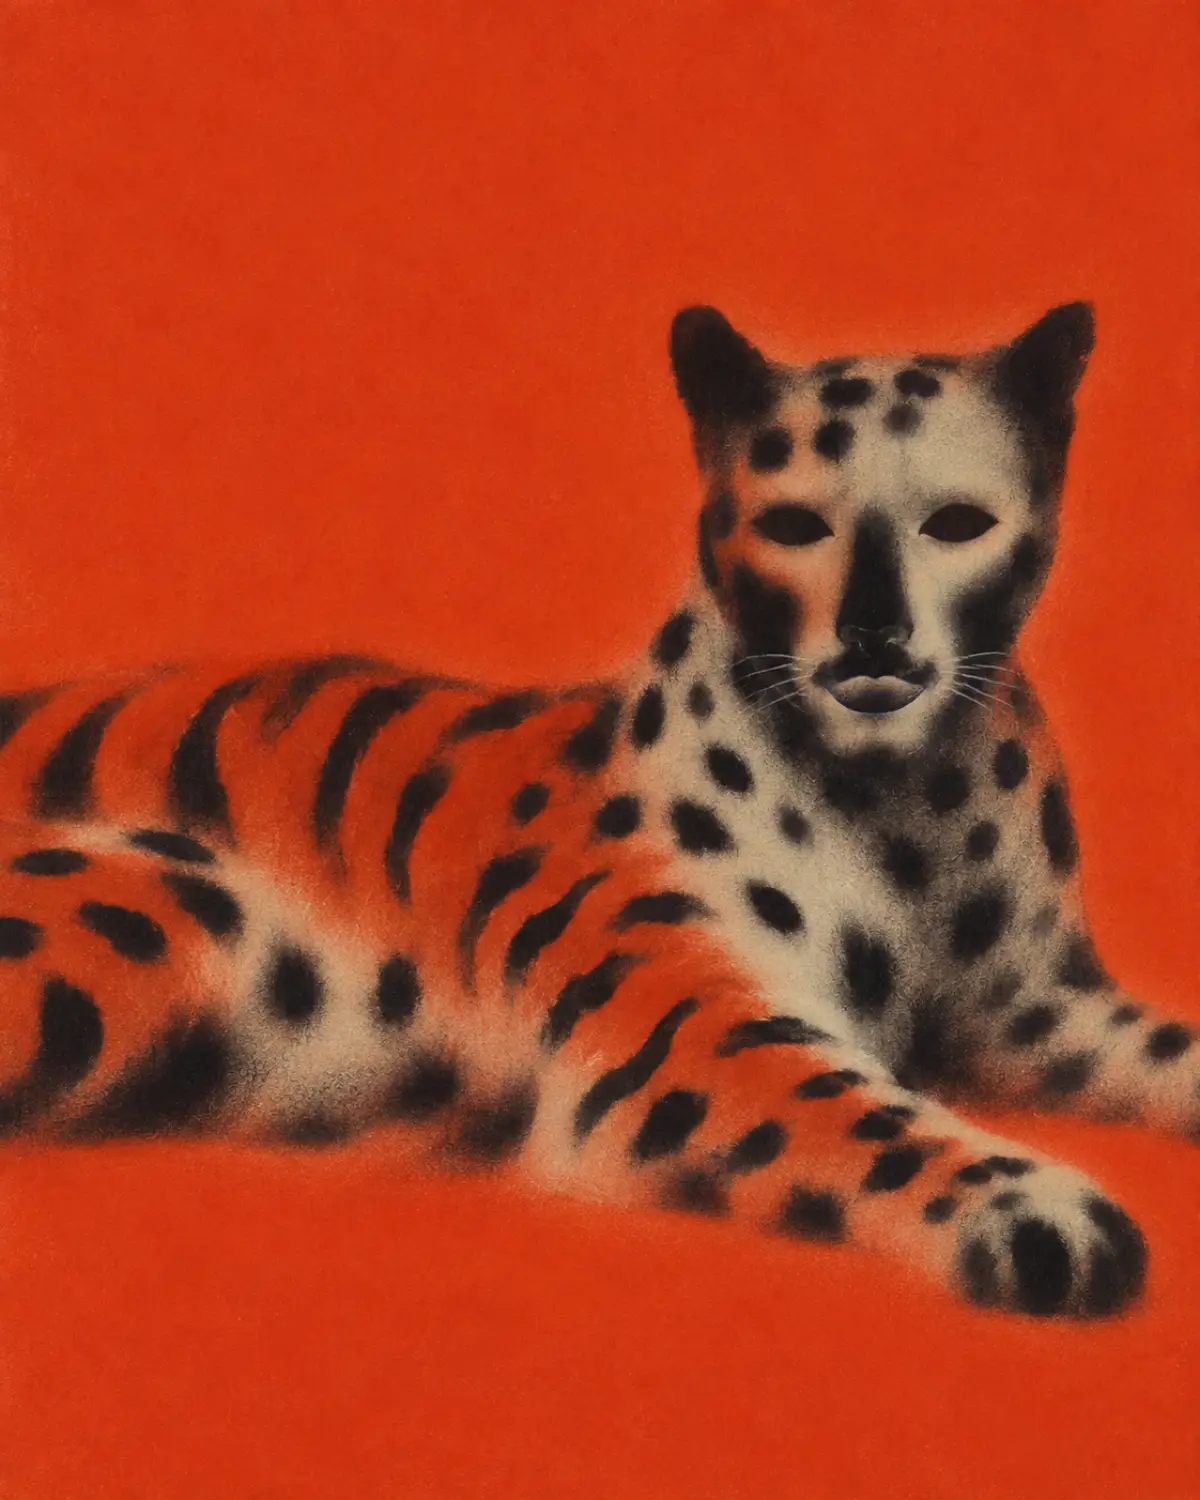
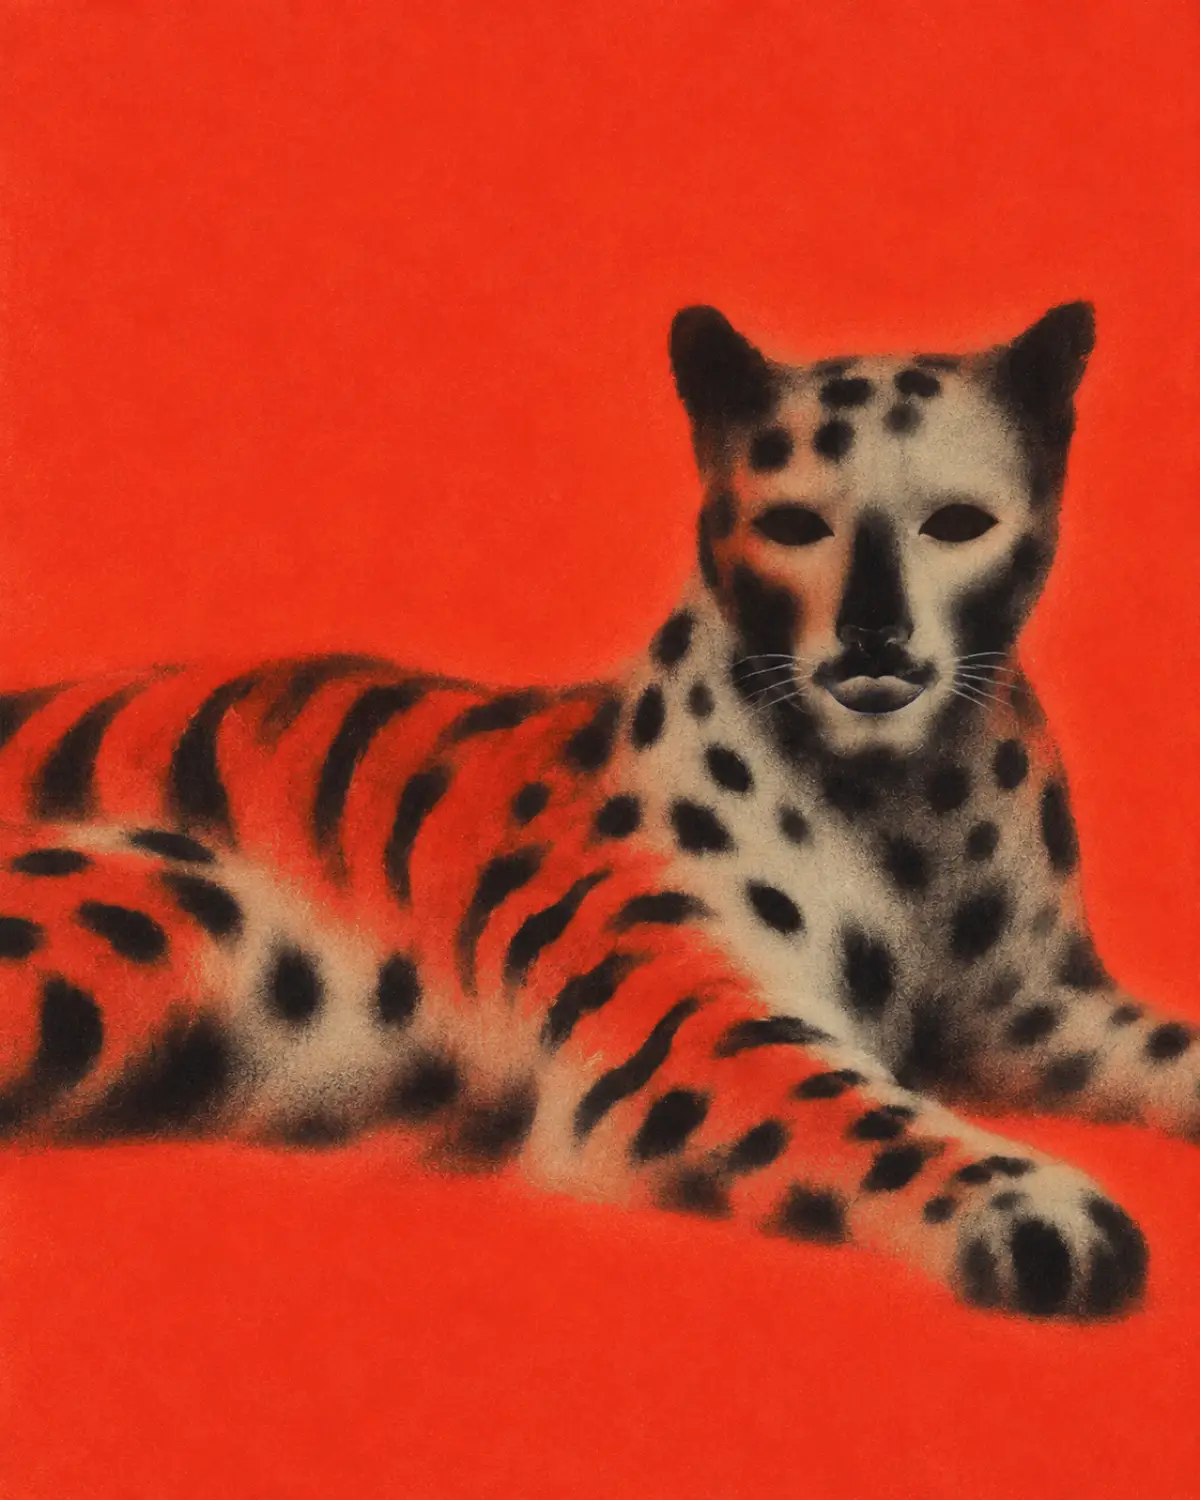
The seven pictures in their rooms
The supplied artwork was sitting in reference/ under its intended path
as a filename; it is now reference/masters/NN-slug.png and the page
ships 960px webp encodes from img/art. Each room carries its picture
with a measured focal point for the lip: the applicant's score badge,
the thumb on the card, the runner's head, the cup's rim, the Toronto
marker, the disco ball, the leopard's mouth.

Grounds against tokens, sampled: only Live sets is near its hex (19
off); Rentletter, Echoes and MELOMANIA sit on white or cream; easymonee,
Klenz and Melomaniac Studios are full-frame photographs. So the rooms
and the closer are painted with their tokens only; nothing takes a
sampled colour any more except the hero, whose portrait is still not
on its hex. The leopard is re-exported on #E3341C with its grain, lip
lifted, for both the closer and the Live sets room.

Pictures are fetched by an observer once their room is a little way up
the screen and fade in, so the first view holds at 285 KB; the whole
page is 889 KB.

diff --git a/index.html b/index.html
@@ -115,7 +115,7 @@
 
     <article class="entry entry--major" id="rentletter" data-t="0.06" data-name="Rentletter" data-cat="SaaS · screening and leads">
       <div class="entry-head">
-        <figure class="entry-art" data-focus="50 50" aria-hidden="true"><span class="entry-art-ph"><svg viewBox="24 0 48 48" preserveAspectRatio="xMidYMid slice" focusable="false"><g transform="translate(24 0)"><defs><radialGradient id="rl0"><stop offset="0%" stop-color="currentColor" stop-opacity="0.787"/><stop offset="33.28%" stop-color="currentColor" stop-opacity="0.512"/><stop offset="65.52%" stop-color="currentColor" stop-opacity="0.166"/><stop offset="100%" stop-color="currentColor" stop-opacity="0"/></radialGradient><radialGradient id="rl1"><stop offset="0%" stop-color="currentColor" stop-opacity="0.519"/><stop offset="33.28%" stop-color="currentColor" stop-opacity="0.338"/><stop offset="65.52%" stop-color="currentColor" stop-opacity="0.11"/><stop offset="100%" stop-color="currentColor" stop-opacity="0"/></radialGradient><radialGradient id="rl2"><stop offset="0%" stop-color="currentColor" stop-opacity="0.362"/><stop offset="33.28%" stop-color="currentColor" stop-opacity="0.235"/><stop offset="65.52%" stop-color="currentColor" stop-opacity="0.077"/><stop offset="100%" stop-color="currentColor" stop-opacity="0"/></radialGradient></defs><g class="m-lift"><ellipse cx="24" cy="15" rx="14.5" ry="4.2" fill="url(#rl0)"/></g><ellipse cx="24" cy="24" rx="14.5" ry="4.2" fill="url(#rl1)"/><ellipse cx="24" cy="33" rx="14.5" ry="4.2" fill="url(#rl2)"/></g></svg></span></figure>
+        <figure class="entry-art" data-focus="77 41" data-lip-width="9" aria-hidden="true"><img data-src="img/art/01-rentletter.webp" alt="" width="540" height="960" decoding="async"></figure>
         <div class="entry-meta">
           <p class="mono entry-pos">01 / Logic</p>
           <span class="entry-axis" aria-hidden="true"><i style="--pt:0.06"></i></span>
@@ -168,7 +168,7 @@
 
     <article class="entry" id="easymonee" data-t="0.20" data-name="easymonee" data-cat="Personal tooling · markets">
       <div class="entry-head">
-        <figure class="entry-art" data-focus="50 50" aria-hidden="true"><span class="entry-art-ph"><svg viewBox="24 0 48 48" preserveAspectRatio="xMidYMid slice" focusable="false"><g transform="translate(24 0)"><defs><radialGradient id="em0"><stop offset="0%" stop-color="currentColor" stop-opacity="0.227"/><stop offset="31.6%" stop-color="currentColor" stop-opacity="0.146"/><stop offset="64.4%" stop-color="currentColor" stop-opacity="0.048"/><stop offset="100%" stop-color="currentColor" stop-opacity="0"/></radialGradient><radialGradient id="em1"><stop offset="0%" stop-color="currentColor" stop-opacity="0.289"/><stop offset="31.6%" stop-color="currentColor" stop-opacity="0.186"/><stop offset="64.4%" stop-color="currentColor" stop-opacity="0.061"/><stop offset="100%" stop-color="currentColor" stop-opacity="0"/></radialGradient><radialGradient id="em2"><stop offset="0%" stop-color="currentColor" stop-opacity="0.351"/><stop offset="31.6%" stop-color="currentColor" stop-opacity="0.226"/><stop offset="64.4%" stop-color="currentColor" stop-opacity="0.074"/><stop offset="100%" stop-color="currentColor" stop-opacity="0"/></radialGradient><radialGradient id="em3"><stop offset="0%" stop-color="currentColor" stop-opacity="0.413"/><stop offset="31.6%" stop-color="currentColor" stop-opacity="0.265"/><stop offset="64.4%" stop-color="currentColor" stop-opacity="0.087"/><stop offset="100%" stop-color="currentColor" stop-opacity="0"/></radialGradient></defs><g fill="none" stroke="currentColor" stroke-linecap="round" stroke-linejoin="round"><path d="M8 8 V40 H40" stroke-width="9.248" stroke-opacity="0.029"/><path d="M8 8 V40 H40" stroke-width="5.712" stroke-opacity="0.054"/><path d="M8 8 V40 H40" stroke-width="3.4" stroke-opacity="0.1"/></g><ellipse cx="14" cy="34" rx="5.0" ry="5.0" fill="url(#em0)"/><ellipse cx="21" cy="27.5" rx="5.6" ry="5.6" fill="url(#em1)"/><ellipse cx="28" cy="20.5" rx="6.4" ry="6.4" fill="url(#em2)"/><g class="m-peak"><ellipse cx="35" cy="13.5" rx="7.6" ry="7.6" fill="url(#em3)"/></g></g></svg></span></figure>
+        <figure class="entry-art" data-focus="61 36" data-lip-width="9" aria-hidden="true"><img data-src="img/art/02-easymonee.webp" alt="" width="720" height="960" decoding="async"></figure>
         <div class="entry-meta">
           <p class="mono entry-pos">02 / Logic</p>
           <span class="entry-axis" aria-hidden="true"><i style="--pt:0.20"></i></span>
@@ -222,7 +222,7 @@
 
     <article class="entry entry--minor" id="klenz" data-t="0.38" data-name="Klenz" data-cat="Wellness · Strava-wired">
       <div class="entry-head">
-        <figure class="entry-art" data-focus="50 50" aria-hidden="true"><span class="entry-art-ph"><svg viewBox="24 0 48 48" preserveAspectRatio="xMidYMid slice" focusable="false"><g transform="translate(24 0)"><defs><radialGradient id="kz0"><stop offset="0%" stop-color="currentColor" stop-opacity="0.386"/><stop offset="29.44%" stop-color="currentColor" stop-opacity="0.243"/><stop offset="62.96%" stop-color="currentColor" stop-opacity="0.081"/><stop offset="100%" stop-color="currentColor" stop-opacity="0"/></radialGradient><radialGradient id="kz1"><stop offset="0%" stop-color="currentColor" stop-opacity="0"/><stop offset="33.44%" stop-color="currentColor" stop-opacity="0.076"/><stop offset="56.48%" stop-color="currentColor" stop-opacity="0.33"/><stop offset="81.8%" stop-color="currentColor" stop-opacity="0.095"/><stop offset="100%" stop-color="currentColor" stop-opacity="0"/></radialGradient></defs><ellipse cx="24" cy="24" rx="8.5" ry="8.5" fill="url(#kz0)"/><ellipse cx="24" cy="24" rx="16" ry="16" fill="url(#kz1)"/><g class="m-open" fill="none" stroke="currentColor" stroke-linecap="round" stroke-linejoin="round"><path d="M40.9 17.8 A18 18 0 1 1 27.1 6.3" stroke-width="10.227" stroke-opacity="0.05"/><path d="M40.9 17.8 A18 18 0 1 1 27.1 6.3" stroke-width="6.317" stroke-opacity="0.092"/><path d="M40.9 17.8 A18 18 0 1 1 27.1 6.3" stroke-width="3.76" stroke-opacity="0.167"/></g></g></svg></span></figure>
+        <figure class="entry-art" data-focus="58 63" data-lip-width="4" aria-hidden="true"><img data-src="img/art/03-klenz.webp" alt="" width="720" height="960" decoding="async"></figure>
         <div class="entry-meta">
           <p class="mono entry-pos">03 / Mixed</p>
           <span class="entry-axis" aria-hidden="true"><i style="--pt:0.38"></i></span>
@@ -268,7 +268,7 @@
 
     <article class="entry entry--major" id="melomaniac-studios" data-t="0.50" data-name="Melomaniac Studios" data-cat="Studio · Labs">
       <div class="entry-head">
-        <figure class="entry-art" data-focus="50 50" aria-hidden="true"><span class="entry-art-ph"><svg viewBox="24 0 48 48" preserveAspectRatio="xMidYMid slice" focusable="false"><g transform="translate(24 0)"><defs><radialGradient id="st0"><stop offset="0%" stop-color="currentColor" stop-opacity="0.066"/><stop offset="28.0%" stop-color="currentColor" stop-opacity="0.041"/><stop offset="62.0%" stop-color="currentColor" stop-opacity="0.014"/><stop offset="100%" stop-color="currentColor" stop-opacity="0"/></radialGradient></defs><ellipse cx="24" cy="29" rx="14" ry="12" fill="url(#st0)"/><g fill="none" stroke="currentColor" stroke-linecap="round" stroke-linejoin="round"><path d="M11 41 V24 A13 13 0 0 1 37 24 V41" stroke-width="10.88" stroke-opacity="0.02"/><path d="M11 41 V24 A13 13 0 0 1 37 24 V41" stroke-width="6.72" stroke-opacity="0.036"/><path d="M11 41 V24 A13 13 0 0 1 37 24 V41" stroke-width="4.0" stroke-opacity="0.065"/></g><g class="m-wave" fill="none" stroke="currentColor" stroke-linecap="round" stroke-linejoin="round"><path d="M4 33 C9 29.5 13 36 18 32.8 S27 29.6 31 33 S40 35.6 44 31.8" stroke-width="10.88" stroke-opacity="0.016"/><path d="M4 33 C9 29.5 13 36 18 32.8 S27 29.6 31 33 S40 35.6 44 31.8" stroke-width="6.72" stroke-opacity="0.03"/><path d="M4 33 C9 29.5 13 36 18 32.8 S27 29.6 31 33 S40 35.6 44 31.8" stroke-width="4.0" stroke-opacity="0.053"/></g></g></svg></span></figure>
+        <figure class="entry-art" data-focus="55 42" data-lip-width="12" aria-hidden="true"><img data-src="img/art/04-melomaniac-studios.webp" alt="" width="768" height="960" decoding="async"></figure>
         <div class="entry-meta">
           <p class="mono entry-pos">04 / Mixed</p>
           <span class="entry-axis" aria-hidden="true"><i style="--pt:0.50"></i></span>
@@ -355,7 +355,7 @@
 
     <article class="entry entry--major" id="echoes" data-t="0.60" data-name="Echoes" data-cat="Consumer · music memory">
       <div class="entry-head">
-        <figure class="entry-art" data-focus="50 50" aria-hidden="true"><span class="entry-art-ph"><svg viewBox="24 0 48 48" preserveAspectRatio="xMidYMid slice" focusable="false"><g transform="translate(24 0)"><defs><radialGradient id="ec0"><stop offset="0%" stop-color="currentColor" stop-opacity="0.179"/><stop offset="26.8%" stop-color="currentColor" stop-opacity="0.11"/><stop offset="61.2%" stop-color="currentColor" stop-opacity="0.038"/><stop offset="100%" stop-color="currentColor" stop-opacity="0"/></radialGradient></defs><ellipse cx="17" cy="31" rx="6.4" ry="6.4" fill="url(#ec0)"/><g class="m-rings"><g fill="none" stroke="currentColor" stroke-linecap="round" stroke-linejoin="round"><path d="M18.2 24.1 A7 7 0 1 1 10.9 27.5" stroke-width="11.424" stroke-opacity="0.028"/><path d="M18.2 24.1 A7 7 0 1 1 10.9 27.5" stroke-width="7.056" stroke-opacity="0.049"/><path d="M18.2 24.1 A7 7 0 1 1 10.9 27.5" stroke-width="4.2" stroke-opacity="0.088"/></g><g fill="none" stroke="currentColor" stroke-linecap="round" stroke-linejoin="round"><path d="M24.5 20.4 A13 13.6 0 1 1 5.2 36.5" stroke-width="11.424" stroke-opacity="0.019"/><path d="M24.5 20.4 A13 13.6 0 1 1 5.2 36.5" stroke-width="7.056" stroke-opacity="0.035"/><path d="M24.5 20.4 A13 13.6 0 1 1 5.2 36.5" stroke-width="4.2" stroke-opacity="0.062"/></g><g fill="none" stroke="currentColor" stroke-linecap="round" stroke-linejoin="round"><path d="M15.3 11.6 A19.5 20.5 0 0 1 33 42.2" stroke-width="11.424" stroke-opacity="0.012"/><path d="M15.3 11.6 A19.5 20.5 0 0 1 33 42.2" stroke-width="7.056" stroke-opacity="0.022"/><path d="M15.3 11.6 A19.5 20.5 0 0 1 33 42.2" stroke-width="4.2" stroke-opacity="0.039"/></g></g></g></svg></span></figure>
+        <figure class="entry-art" data-focus="45 57" data-lip-width="8" aria-hidden="true"><img data-src="img/art/05-echoes.webp" alt="" width="640" height="960" decoding="async"></figure>
         <div class="entry-meta">
           <p class="mono entry-pos">05 / Feeling</p>
           <span class="entry-axis" aria-hidden="true"><i style="--pt:0.60"></i></span>
@@ -410,7 +410,7 @@
 
     <article class="entry" id="melomania" data-t="0.80" data-name="MELOMANIA" data-cat="Live series · Toronto">
       <div class="entry-head">
-        <figure class="entry-art" data-focus="50 50" aria-hidden="true"><span class="entry-art-ph"><svg viewBox="24 0 48 48" preserveAspectRatio="xMidYMid slice" focusable="false"><g transform="translate(24 0)"><defs><radialGradient id="mm0"><stop offset="0%" stop-color="currentColor" stop-opacity="0.195"/><stop offset="24.4%" stop-color="currentColor" stop-opacity="0.117"/><stop offset="59.6%" stop-color="currentColor" stop-opacity="0.041"/><stop offset="100%" stop-color="currentColor" stop-opacity="0"/></radialGradient></defs><ellipse cx="13" cy="37" rx="6.0" ry="6.0" fill="url(#mm0)"/><g class="m-arcs"><g fill="none" stroke="currentColor" stroke-linecap="round" stroke-linejoin="round"><path d="M21.6 35 C22.2 33.3 20.6 31.7 19.9 30.6 C19.2 29.6 17.3 29.9 16.4 29.2 C15.7 28.6 14.9 29.7 14.2 29.1" stroke-width="12.512" stroke-opacity="0.033"/><path d="M21.6 35 C22.2 33.3 20.6 31.7 19.9 30.6 C19.2 29.6 17.3 29.9 16.4 29.2 C15.7 28.6 14.9 29.7 14.2 29.1" stroke-width="7.728" stroke-opacity="0.059"/><path d="M21.6 35 C22.2 33.3 20.6 31.7 19.9 30.6 C19.2 29.6 17.3 29.9 16.4 29.2 C15.7 28.6 14.9 29.7 14.2 29.1" stroke-width="4.6" stroke-opacity="0.102"/></g><g fill="none" stroke="currentColor" stroke-linecap="round" stroke-linejoin="round"><path d="M28 34.1 C29 30.4 26.4 28 25 26.1 C23.6 24.3 20.7 23 19.2 24.1 C17.7 25.1 16.9 22.4 15.1 23.7" stroke-width="12.512" stroke-opacity="0.023"/><path d="M28 34.1 C29 30.4 26.4 28 25 26.1 C23.6 24.3 20.7 23 19.2 24.1 C17.7 25.1 16.9 22.4 15.1 23.7" stroke-width="7.728" stroke-opacity="0.04"/><path d="M28 34.1 C29 30.4 26.4 28 25 26.1 C23.6 24.3 20.7 23 19.2 24.1 C17.7 25.1 16.9 22.4 15.1 23.7" stroke-width="4.6" stroke-opacity="0.07"/></g><g fill="none" stroke="currentColor" stroke-linecap="round" stroke-linejoin="round"><path d="M34.3 33.3 C35.7 28.6 32.3 24.3 31.2 22 C29.9 19.5 26.3 17.6 23.7 17.5 C21 17.3 17.8 15.7 15.1 18.3" stroke-width="12.512" stroke-opacity="0.015"/><path d="M34.3 33.3 C35.7 28.6 32.3 24.3 31.2 22 C29.9 19.5 26.3 17.6 23.7 17.5 C21 17.3 17.8 15.7 15.1 18.3" stroke-width="7.728" stroke-opacity="0.026"/><path d="M34.3 33.3 C35.7 28.6 32.3 24.3 31.2 22 C29.9 19.5 26.3 17.6 23.7 17.5 C21 17.3 17.8 15.7 15.1 18.3" stroke-width="4.6" stroke-opacity="0.045"/></g></g></g></svg></span></figure>
+        <figure class="entry-art" data-focus="49 27" data-lip-width="9" aria-hidden="true"><img data-src="img/art/06-melomania.webp" alt="" width="640" height="960" decoding="async"></figure>
         <div class="entry-meta">
           <p class="mono entry-pos">06 / Feeling</p>
           <span class="entry-axis" aria-hidden="true"><i style="--pt:0.80"></i></span>
@@ -464,7 +464,7 @@
 
     <article class="entry entry--minor" id="live-sets" data-t="0.95" data-name="Live sets" data-cat="Performance · original">
       <div class="entry-head">
-        <figure class="entry-art" data-focus="50 50" aria-hidden="true"><span class="entry-art-ph"><svg viewBox="24 0 48 48" preserveAspectRatio="xMidYMid slice" focusable="false"><g transform="translate(24 0)"><ellipse cx="24" cy="24" rx="20" ry="10" fill="none"/></g></svg></span></figure>
+        <figure class="entry-art" data-focus="72.95 46.29" data-lip-width="8.38" aria-hidden="true"><img data-src="img/art/07-live-sets.webp" alt="" width="768" height="960" decoding="async"></figure>
         <div class="entry-meta">
           <p class="mono entry-pos">07 / Feeling</p>
           <span class="entry-axis" aria-hidden="true"><i style="--pt:0.95"></i></span>

diff --git a/script.js b/script.js
@@ -436,10 +436,16 @@
       return null;                   // tainted or not decodable: keep the token
     }
   };
+  // the room pictures are fetched once their room is a little way up the
+  // screen, not when its top edge grazes the fold: the browser's own lazy
+  // margin is over a screen ahead and pulled three of them into the
+  // first view. They fade in as they land.
+  const gate = "IntersectionObserver" in window ? new IntersectionObserver((es) => { for (const e of es) if (e.isIntersecting) { const im = e.target; if (im.dataset.src) { im.src = im.dataset.src; delete im.dataset.src; } gate.unobserve(im); } }, { rootMargin: "0px 0px -15% 0px" }) : null;
+  for (const im of document.querySelectorAll(".entry-art img[data-src]")) { if (gate) gate.observe(im); else { im.src = im.dataset.src; } }
   for (const img of document.querySelectorAll(".entry-art img")) {
     const done = () => {
       const c = sample(img);
-      if (c) img.closest(".entry").style.setProperty("--art-bg", c);   // the room takes the picture's ground
+      if (c) img.closest(".entry").dataset.ground = c;   // recorded for the auditors and reports; the room keeps its token
       img.classList.add("is-loaded");
     };
     if (img.complete && img.naturalWidth) done();
@@ -616,14 +622,14 @@
       return `rgb(${r} ${g} ${b})`;
     } catch { return null; }
   };
-  for (const [sel, prop] of [[".hero-portrait img", "--hero-bg"], [".closer-art img", "--closer-bg"]]) {
+  for (const [sel, prop] of [[".hero-portrait img", "--hero-bg"], [".closer-art img", "--closer-bg"]]) {   // the hero still takes its sample: the portrait is not on the token yet
     const img = document.querySelector(sel); if (!img) continue;
     const done = () => {
       const c = sample(img); if (!c) return;
       document.documentElement.style.setProperty(prop, c);
       // the last room and the closer are one field: until Live sets has a
       // picture of its own, its room takes the leopard's sampled ground
-      if (prop === "--closer-bg") { const last = document.querySelector("#live-sets"); if (last && !last.querySelector(".entry-art img")) last.style.setProperty("--art-bg", c); }
+      if (prop === "--closer-bg") document.documentElement.dataset.closerGround = c;   // recorded only; the closer is painted with the token
     };
     if (img.complete && img.naturalWidth) done(); else img.addEventListener("load", done, { once: true });
   }

diff --git a/styles.css b/styles.css
@@ -1510,7 +1510,7 @@ html { overflow-x: clip; }
   max-width: none;
   margin: 0;
   padding: 0 max(var(--pad-x), calc(50% - var(--page-max) / 2 + var(--pad-x)));
-  background: var(--closer-bg, var(--c7));
+  background: var(--c7);   /* the leopard is exported on this hex; nothing is sampled */
 }
 .closer-art {
   margin: 0 auto;
@@ -1580,7 +1580,7 @@ html { overflow-x: clip; }
   align-content: center;
   min-height: 52vh;
   padding-block: var(--s5);
-  --ground: var(--art-bg, var(--mc, var(--accent)));
+  --ground: var(--mc, var(--accent));   /* the token, never a sampled colour: a picture that is off shows as off */
 }
 /* above the phone grid the copy keeps its two lanes, placed explicitly,
    since the copy's ground is a grid item too and must not push the copy

diff --git a/README.md b/README.md
@@ -321,16 +321,27 @@ reference/                     the style references, not shipped
   style-03-leopard-vermilion.png
   mockup-homepage.png
 
-img/art/                       the shipped artwork, one per entry
-  01-rentletter.png            master, 1600x2000
+reference/masters/             the masters, not shipped, not in git
+  01-rentletter.png            1600x2000
   02-easymonee.png
   03-klenz.png
   04-melomaniac-studios.png
   05-echoes.png
   06-melomania.png
   07-live-sets.png
-  portrait.png                 master, 1600x2000, the hero
+  portrait.png                 the hero
+
+img/art/                       what the page ships, generated from the masters
+  01-rentletter.webp ... 07-live-sets.webp   960px tall
+  portrait-hero.webp, leopard.webp, lip.png
 ```
+
+Drop the masters into `reference/masters/` with exactly these names (the
+first batch arrived in `reference/` named `img:art:01-rentletter.png.PNG`
+and so on, and nothing picked them up). The page samples each picture's
+ground on load and records it on the entry as `data-ground`, so an
+export that is off its token can be read straight off the DOM; the room
+itself is always painted with the token.
 
 The number is the entry's position and the slug is its `id` in
 `index.html`. Both are in the name so a file can never land in the
